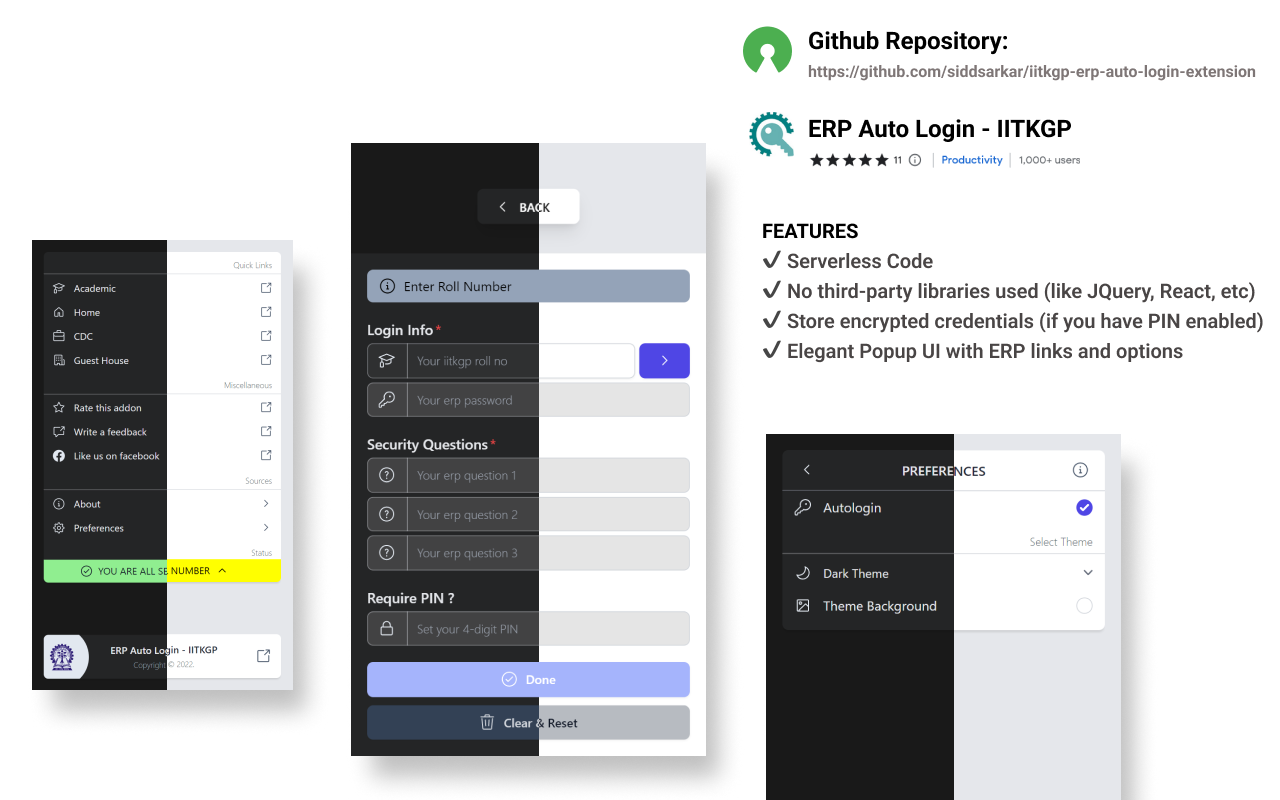
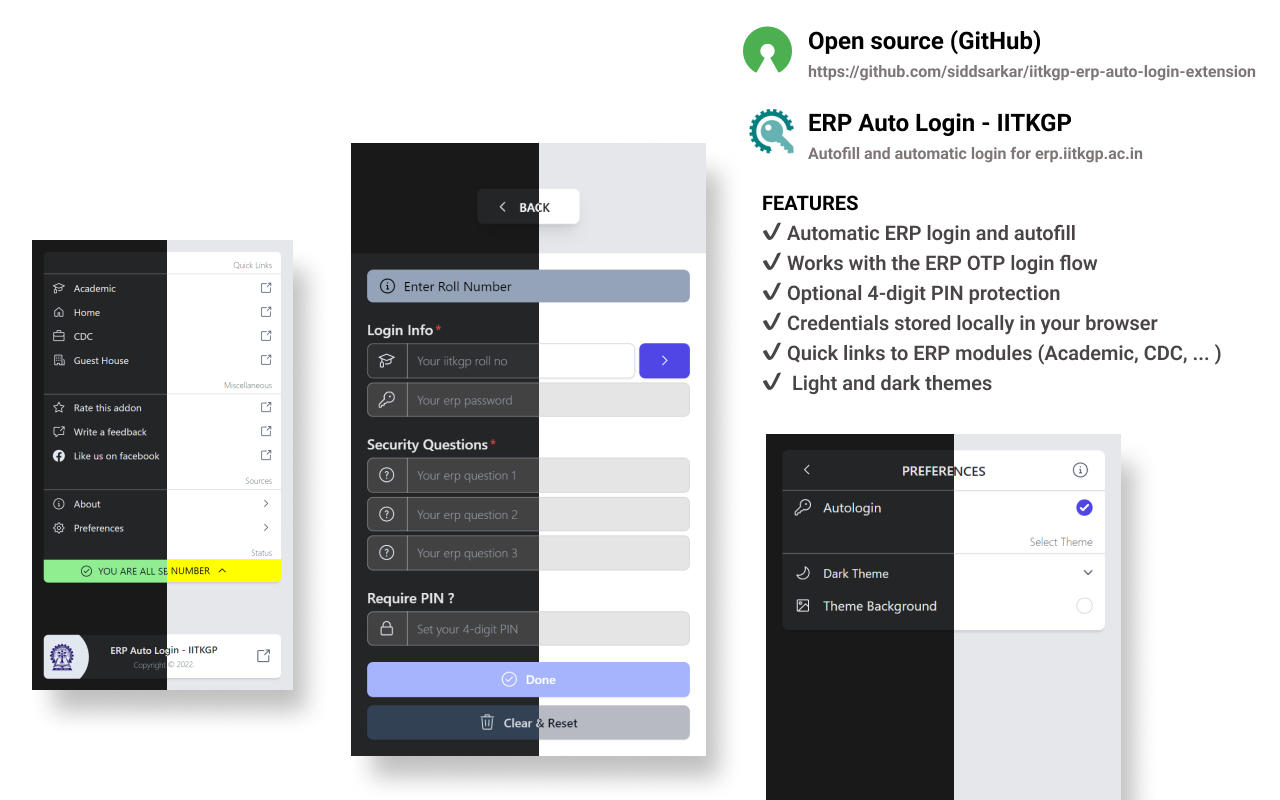
fix(compliance): update summary and cover image to rectify "red nickel" violation

Changed region(s): [[0.5625, 0.125, 1.0, 0.5], [0.625, 0.0312, 0.8125, 0.0625]]

diff --git a/README.md b/README.md
@@ -7,7 +7,7 @@
 <h3 align="center">ERP Auto Login - IITKGP</h3>
 
 <p align="center">
-  Minimial yet powerful and customizable autologin/autofill extension, for IIT Kharagpur enrolled students.
+  Autofill / automatic login browser extension for the IIT Kharagpur ERP, for enrolled students.
   <br>
   <a href="https://github.com/siddsarkar/iitkgp-erp-auto-login-extension/issues/new">Report a bug</a>
   ·
@@ -20,7 +20,7 @@
 
 # ERP Auto Login - IITKGP
 
-Our default branch `master` is the source code to the recent stable release. Want to test beta versions? Head to the [`develop` branch](https://github.com/siddsarkar/iitkgp-erp-auto-login-extension/tree/develop) to view the latest updates and features before the official release.
+Our default branch `master` is the source code to the recent stable release. Want to test beta versions? Head to the [`develop` branch](https://github.com/siddsarkar/iitkgp-erp-auto-login-extension/tree/develop) to view the latest updates and features before the stable release.
 
 > This extension `never` shares your credentials. It stays locally in your browser itself using the browser API [`storage.local`](https://developer.mozilla.org/en-US/Add-ons/WebExtensions/API/storage/local) by mozilla.
 
@@ -29,7 +29,7 @@ Our default branch `master` is the source code to the recent stable release. Wan
 - [ERP Auto Login - IITKGP](#erp-auto-login---iitkgp)
   - [Table of contents](#table-of-contents)
   - [Status](#status)
-  - [Why Us?](#why-us)
+  - [Features](#features)
   - [Permissions Used](#permissions-used)
   - [Installation](#installation)
   - [Bugs and feature requests](#bugs-and-feature-requests)
@@ -46,22 +46,20 @@ Our default branch `master` is the source code to the recent stable release. Wan
 
 [![Release](https://github.com/siddsarkar/iitkgp-erp-auto-login-extension/actions/workflows/release.yml/badge.svg)](https://github.com/siddsarkar/iitkgp-erp-auto-login-extension/actions/workflows/release.yml)
 [![CodeQL](https://github.com/siddsarkar/iitkgp-erp-auto-login-extension/actions/workflows/github-code-scanning/codeql/badge.svg)](https://github.com/siddsarkar/iitkgp-erp-auto-login-extension/actions/workflows/github-code-scanning/codeql)
-![Chrome Add-on](https://img.shields.io/chrome-web-store/users/hianmedhblomknonbbmalncjjffdligl?label=chrome-users)
 ![Mozilla Add-on](https://img.shields.io/amo/v/%7Bfa21e38a-41b3-4891-8f6b-8ba837e2df65%7D)
-![Mozilla Add-on](https://img.shields.io/amo/users/%7Bfa21e38a-41b3-4891-8f6b-8ba837e2df65%7D?label=mozilla-users)
-![Mozilla Add-on](https://img.shields.io/amo/dw/%7Bfa21e38a-41b3-4891-8f6b-8ba837e2df65%7D)
 ![GitHub](https://img.shields.io/github/license/siddsarkar/iitkgp-erp-auto-login-extension)
-![Mozilla Add-on](https://img.shields.io/amo/rating/%7Bfa21e38a-41b3-4891-8f6b-8ba837e2df65%7D)
-![Mozilla Add-on](https://img.shields.io/amo/stars/%7Bfa21e38a-41b3-4891-8f6b-8ba837e2df65%7D)
 ![Code Style](https://img.shields.io/badge/code%20style-prettier-ff69b4)
 
-## Why Us?
+## Features
 
-- Local only extension (serverless)
-- No fancy permissions, minimum [permissions](#permissions-used) used to work.
-- Light on browser, size ~45-50 kilobytes
-- Updates every 2 months
-- Open source and documented code
+- Automatic login / autofill on [erp.iitkgp.ac.in](https://erp.iitkgp.ac.in)
+- Works with the ERP's OTP login flow (fills the form, you click "Send OTP")
+- Optional 4-digit PIN; credentials are encrypted when a PIN is set
+- Credentials stay local in the browser (`storage.local`), no external server
+- Quick links to ERP modules (Home, Academic, CDC, Guest House) and a configurable landing page
+- Light and dark themes
+- Minimal [permissions](#permissions-used)
+- Open source
 
 ## Permissions Used
 
@@ -70,7 +68,7 @@ Our default branch `master` is the source code to the recent stable release. Wan
 
 ## Installation
 
-- From Firefox/Chrome Stores (recommended)
+- From Firefox/Chrome Stores
   <p align="left">
       <a href="https://addons.mozilla.org/en-US/firefox/addon/erp-auto-login-iitkgp/">
           <img src="https://blog.mozilla.org/addons/files/2020/04/get-the-addon-fx-apr-2020.svg" alt="ERP Auto Login - IITKGP logo" height="58">

diff --git a/docs/chrome-web-store-compliance.md b/docs/chrome-web-store-compliance.md
@@ -1,0 +1,64 @@
+# Chrome Web Store Compliance
+
+Checklist to run through before every Chrome Web Store submission. It exists
+because version 9.1.3 was rejected under
+**"Ensuring Responsible Marketing and Monetization → Impersonation and
+Intellectual Property → Red Nickel"** (rating/media content mimicking ranking,
+rating, performance, current status, or promotional information).
+
+Root cause of that rejection: the promotional cover image
+(`screenshots/cover_new.png`) reproduced a Chrome Web Store-style listing card
+with a five-star row, a review count and a "1,000+ users" figure. It has been
+replaced with an image that only shows the popup UI and a feature list.
+
+## Promotional content
+
+- [ ] No fabricated or copied ratings (stars, "4.9/5", review counts)
+- [ ] No user/download counts in promotional images or text
+- [ ] No "#1" claims
+- [ ] No "Best" claims
+- [ ] No "Recommended" claims
+- [ ] No "Featured" claims
+- [ ] No "Top Rated" claims
+- [ ] No "New" / "Now supports" promotional badges
+- [ ] No Chrome Web Store-style ranking/status badges or listing-card mock-ups
+- [ ] No "Official", "Verified", or "endorsed by IIT Kharagpur" claims
+
+## Media
+
+- [ ] Screenshots demonstrate actual functionality only
+- [ ] Promotional images do not contain ratings
+- [ ] Promotional images do not contain ranking claims
+- [ ] Promotional images do not contain user/download statistics
+- [ ] Promotional images do not reproduce Chrome Web Store UI (category chips, star rows, install counts)
+- [ ] Every image uploaded to the Store comes from `screenshots/` (never `screenshots/old/`)
+
+## Metadata
+
+- [ ] Name accurately describes the extension (`ERP Auto Login - IITKGP`)
+- [ ] Manifest description contains factual functionality only
+- [ ] Store description (see `docs/chrome-web-store-listing.md`) contains factual functionality only
+- [ ] No unsupported affiliation/endorsement claims (not official, not endorsed by IIT Kharagpur or Google)
+- [ ] Privacy statement matches behaviour: credentials stay in `storage.local`, nothing is sent to an external server
+
+## In-extension UI
+
+- [ ] "Rate this addon" in the popup is a plain link to the Store listing with no star score, count, or badge next to it (acceptable feedback mechanism)
+- [ ] No status/ranking text in the popup that could be read as Store performance data
+
+## Repository
+
+- [ ] README has no user-count, download-count, rating, or star badges
+- [ ] README cover image is the same Store-safe `screenshots/cover_new.png`
+
+## Pre-submission grep
+
+Run from the repository root and review every hit in context:
+
+```bash
+grep -rniE "rating|stars|★|users|downloads|recommended|premium|#1|featured|\bbest\b|popular|top rated|official|verified" \
+  README.md docs src/manifest.json src/pages/Popup/index.html
+```
+
+Expected hits are only technical/functional (e.g. `new Error(...)`, the
+"Rate this addon" link text). Anything else must be removed before upload.

diff --git a/docs/chrome-web-store-listing.md b/docs/chrome-web-store-listing.md
@@ -1,0 +1,60 @@
+# Chrome Web Store listing copy
+
+Paste this into the Store dashboard. Keep it factual: no ratings, counts,
+rankings, "new", "best", "recommended", "official" or endorsement wording.
+See `docs/chrome-web-store-compliance.md` before submitting.
+
+## Name
+
+```
+ERP Auto Login - IITKGP
+```
+
+## Summary (manifest `description`, max 132 characters)
+
+```
+Auto Login to erp.iitkgp.ac.in for IITKGPians by IITKGPian
+```
+
+## Description
+
+```
+ERP Auto Login - IITKGP automatically fills your credentials on the
+IIT Kharagpur ERP website (erp.iitkgp.ac.in) and logs you in.
+
+Features:
+
+• Automatic ERP login and autofill
+• Works with the ERP's OTP login flow (the form is filled, you click "Send OTP")
+• Optional 4-digit PIN protection; credentials are encrypted when a PIN is set
+• Local credential storage
+• Quick links to ERP modules (Home, Academic, CDC, Guest House)
+• Configurable landing page after login
+• Light and dark themes
+• Open-source implementation
+
+Privacy:
+
+Credentials are stored locally in the browser using the extension storage
+API. The extension does not send credentials to any external server. It only
+communicates with erp.iitkgp.ac.in.
+
+Permissions:
+
+• storage - to keep your credentials and preferences in the browser
+• erp.iitkgp.ac.in - to fill the login form and sign you in
+
+The extension is intended for IIT Kharagpur students. It is an independent
+open-source project and is not affiliated with or endorsed by IIT Kharagpur.
+
+Source code: https://github.com/siddsarkar/iitkgp-erp-auto-login-extension
+```
+
+## Media
+
+Upload only files from `screenshots/` (1280x800 or 640x400):
+
+- `cover_new.png` (promotional / marquee)
+- the `chrome-extension___..._Popup_index.html*.png` popup screenshots
+
+Do not upload anything from `screenshots/old/`.
